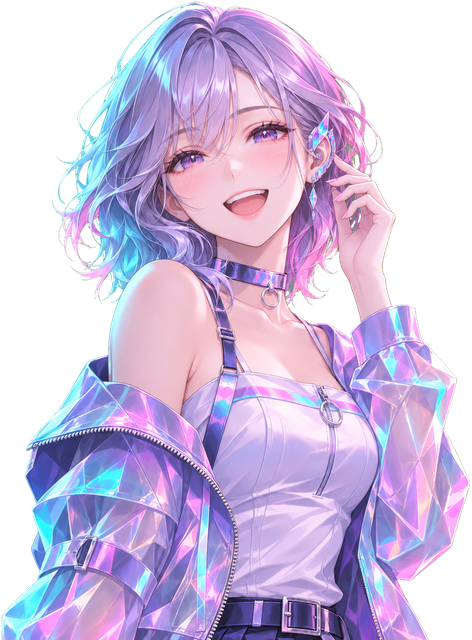
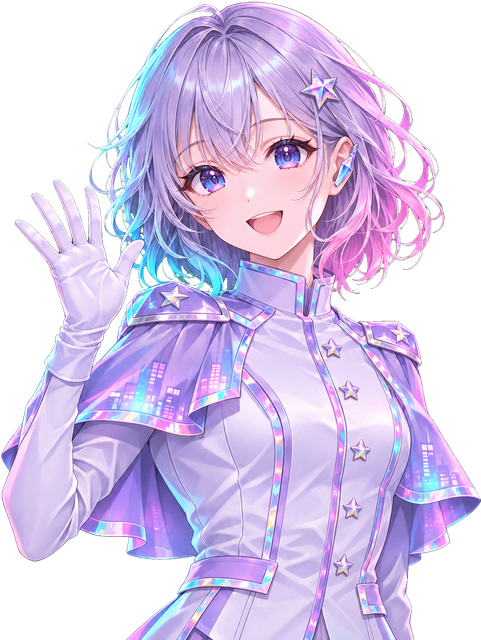
Match Holographic Rhythm to its design with gradients, glows and a stage idol

diff --git a/README.md b/README.md
@@ -109,12 +109,21 @@ the application's configured defaults.
 ## Composer and buttons
 
 Each variant may set `composer.border_width` (0–4 logical pixels). The color uses
-Kit's `input.border` token; the surface and radius retain their Kit theme tokens.
-The default width is zero.
+Kit's `input.border` token unless `composer.border` sets one; with
+`composer.border_gradient` the edge runs from that color on the left to the
+gradient color on the right. `composer.glow` adds a soft light around the
+surface and `composer.placeholder` colors the empty draft's text. The surface
+and radius retain their Kit theme tokens. The default width is zero.
 
 The optional `composer.top_left` and `composer.bottom_right` assets draw fixed-size,
 transparent corner ornaments. Their `height` is the square size (16–96 pixels).
 Decorations paint behind content without taking input focus or installing actions.
+
+Any of these color objects may add `glow`, a soft light around the button, and
+`gradient`: the fill then runs from the
+state's color on the left to that color on the right. A variant's optional
+`new_session` object, with the same fields, colors the sidebar's New
+Conversation button.
 
 `icon.send` and `icon.stop` replace the two distinct button glyphs.
 `button.send` and `button.stop` optionally add image textures beneath them.
@@ -143,6 +152,9 @@ retain Kit's normal tint. Optional `background.card.explore`,
 `background.card.build`, `background.card.review` and `background.card.plan`
 assets add noninteractive textures, clipped to the card radius behind its content.
 
+A card's optional `glow` adds a soft light around it, and `icon_background`
+draws a rounded tile behind its icon.
+
 ## Window backgrounds and sidebar headings
 
 `background.window` draws once behind the entire Shell, including navigation,
@@ -154,6 +166,15 @@ Sidebar group headings have default Kit icons. The `icon.group.hosts`,
 `icon.group.activity`, `icon.group.unassigned`, `icon.group.projects` and
 `icon.group.recent` assets replace their 16-pixel glyphs without changing group
 labels, disclosure controls or keyboard interaction.
+
+`sidebar.accent.background` and `sidebar.accent.foreground` mark the chosen
+navigation item: the sidebar's selected row and the rail's current destination.
+Without them both keep Kit's neutral selection.
+
+A package may set top-level `surfaces` (`main` and `sidebar` opacity 0.45–1,
+`blur` 0–1), the Appearance transparency sliders' values. Choosing the theme
+applies them; the sliders adjust from there. Without it the application
+defaults apply.
 
 ## Raster decorations
 
@@ -183,7 +204,10 @@ the large theme radius, edged with `input.border`, its effects drawn over it.
 The optional `hero.new_session.figure` (16–360 pixels, requires the hero) is a
 transparent cutout standing on the banner's bottom edge, placed across it by its
 horizontal `alignment`. A figure taller than the banner rises above its top edge;
-the welcome page reserves that space, so it covers nothing above.
+the welcome page reserves that space, so it covers nothing above. The figure's
+`float` (0–12 pixels) lets it drift up and down over six seconds while theme
+animation is on. Over a banner card, hero effects drift across the whole hero,
+past the card's frame.
 
 ## Message surfaces and wordmark
 
@@ -202,6 +226,9 @@ transparent corner ornaments (16–96 pixels), clipped within the surface.
 
 `wordmark.foreground` and `wordmark.glow` independently color the welcome page's
 square particles and their illumination. Defaults follow Kit's foreground.
+`wordmark.gradient` shades the lettering from `foreground` at its left to that
+color at its right, and `wordmark.base` (0–1, default 0.18) is its strength at
+rest, before the light passing under the pointer.
 
 `button.new_session` overlays an eventless, full-width top-edge ornament on the
 sidebar's existing New Conversation button. Its `height` is 4–96 pixels; a thin

diff --git a/holographic-rhythm/ARTWORK.md b/holographic-rhythm/ARTWORK.md
@@ -20,7 +20,7 @@ Use case: precise-object-edit. Edit this transparent pink circuit texture for se
 
 ### figure
 
-Style: polished anime key visual, dreamy holographic night city, deep indigo base with cyan #7FE7FF and rose pink #FF8AD0 accents and soft violet between, vivid but tasteful, moderate glow (not neon-overloaded). Draw ONLY one character as a standalone cutout for compositing over a banner: - ORIGINAL virtual-idol girl, not resembling any existing character (no twin tails, no famous-vocaloid headset). Shoulder-length wavy silver-lavender hair fading to cyan and pink at the tips, a small crystal holographic ear-piece, choker, translucent iridescent holographic jacket slipping off one shoulder over a white top. Warm joyful smile, looking slightly toward the viewer. - NO microphone, nothing in her hands. Relaxed pose: one hand lightly raised near her ear-piece. - Waist-up, three-quarter view, body turned slightly left, filling the frame vertically; the bottom edge cuts cleanly at the waist. - Portrait canvas 3:4. Background: perfectly flat solid pure green #00FF00 everywhere, no shadow, no glow, no gradient, no objects. Crisp edges, hair strands clearly separated from the green. Soft cyan and pink rim light on her.
+Style: polished anime idol key visual, dreamy holographic night-city palette (deep indigo, cyan #7FE7FF, rose pink #FF8AD0, soft violet), clean and wholesome. Draw ONLY one character as a standalone cutout for compositing over a banner: - An ORIGINAL cheerful virtual pop idol girl, about 17, not resembling any existing character (no twin tails, no famous-vocaloid headset). Shoulder-length wavy silver-lavender hair fading to cyan and pink at the tips, a small star hair clip, a slim crystal ear-piece. - A modest, fully covering idol stage outfit: a fitted white-and-lavender stage jacket with high collar, worn closed and on both shoulders, holographic trim and small star buttons, short cape detail, gloves. No bare shoulders, no cleavage, no choker, no straps, nothing revealing. - Expression and pose of a bright, energetic, innocent idol: a friendly closed-mouth or small open smile, clear sparkling eyes looking at the viewer, a confident cheerful wave with one gloved hand raised beside her face (palm open, waving), the other hand out of frame. Nothing in her hands. Not flirtatious, not blushing heavily, no seductive look. - Waist-up, three-quarter view, body turned slightly left, filling the frame vertically; the bottom edge cuts cleanly at the waist. - Portrait canvas 3:4. Background: perfectly flat solid pure green #00FF00 everywhere, no shadow, no glow, no gradient, no objects. Crisp edges, hair strands clearly separated from the green. Soft cyan and pink rim light on her.
 
 ### banner
 

diff --git a/holographic-rhythm/README.md b/holographic-rhythm/README.md
@@ -10,8 +10,9 @@ The package uses Sailry's v1 theme hooks, including independent switch tracks.
 Both modes include a continuous window wallpaper, a welcome banner whose
 character rises above its top edge, four card icons (dark mode; light mode tints
 Kit's vector icons), sidebar group icons, circuit textures, composer and message
-ornaments, wordmark colors, tabs and global button colors. Send and Stop use
-solid contrasting fills with Kit vector glyphs. Standard feature-rail glyphs
+ornaments, wordmark colors, tabs and global button colors. Send, Stop and New
+Conversation use a cyan-to-pink gradient with Kit vector glyphs; the wordmark
+shares that gradient. Standard feature-rail glyphs
 retain their shapes and semantic control colors.
 
 The wallpapers use `cover`; the small circuit texture repeats on the cards.
@@ -21,7 +22,7 @@ Changing those preferences can change text contrast. The package checks cover
 the default main-panel tint, card states and modal control colors.
 
 Cyan and pink stars twinkle above the content and navigation panel tints, with
-3–5 pixel cores and brighter cross-shaped glints. The banner has pink stars, with slower holographic specks in conversations. Light mode
+3–5 pixel cores and brighter cross-shaped glints. The banner's character drifts gently and petals and stars float past its frame, with slower holographic specks in conversations. Light mode
 uses deeper colors and lower opacity for visibility. Settings → Appearance →
 Theme animation controls these layers.
 
